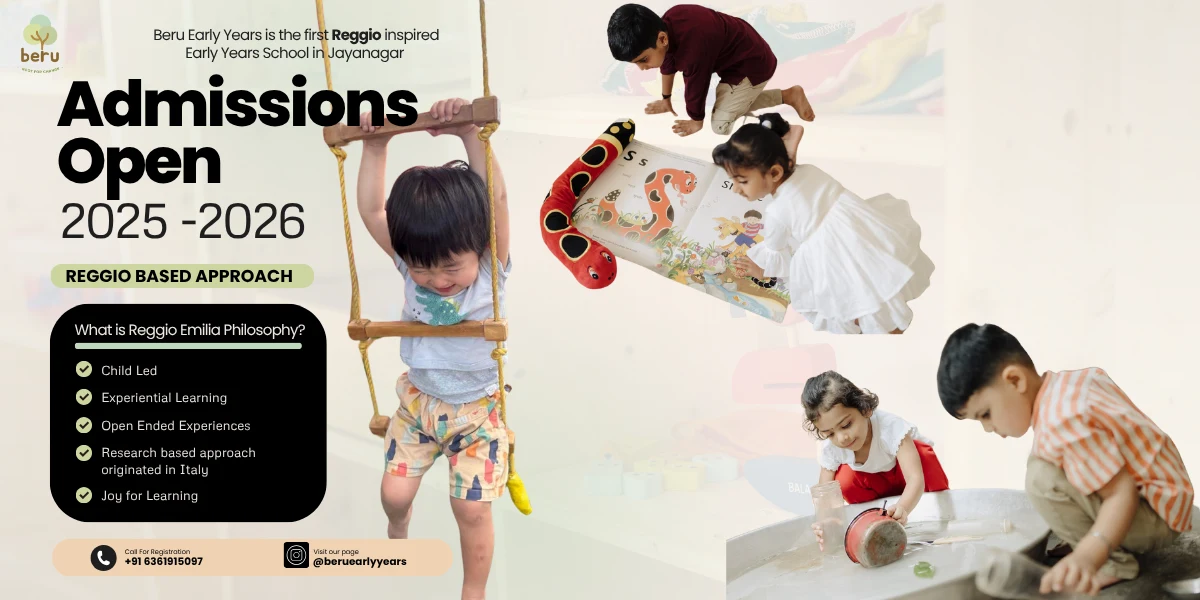
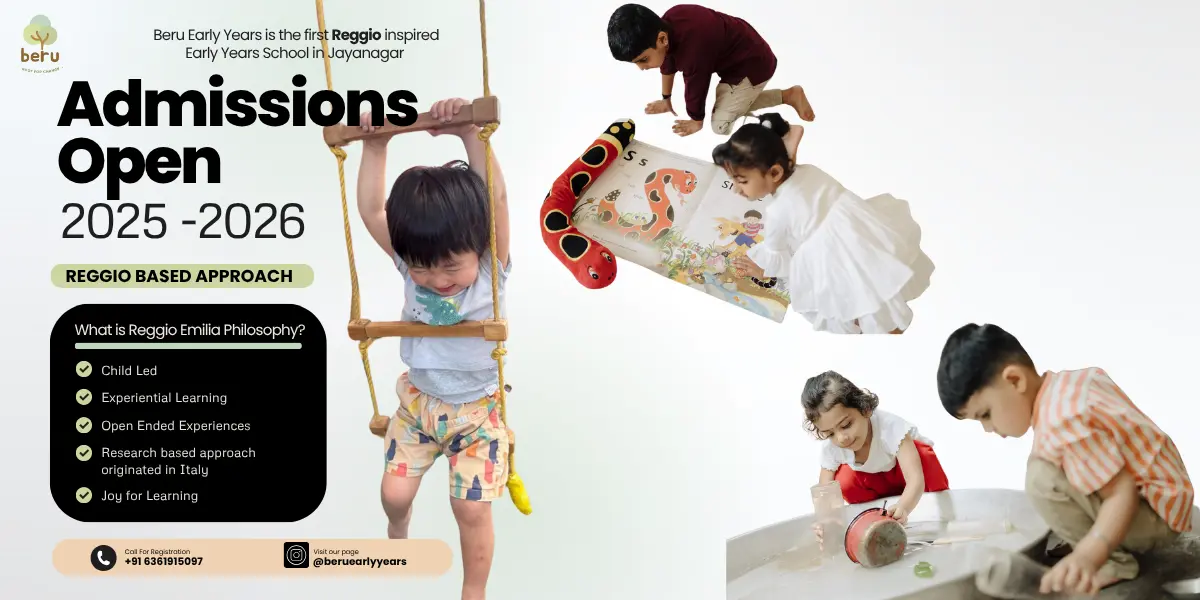
pic change

diff --git a/landing_page.html b/landing_page.html
@@ -764,7 +764,7 @@
                                         
                                         <div class="sx-info  p-t20 text-white">
                                             <h4 class="sx-tilte m-t0"><a href="#"></a></h4>
-                                            <!-- <p>Many of our projects cannot be featured in this section due to the Security levels of the space.</p> -->
+                                            <!-- <p></p> -->
 											<a href="landing_page.html#book" class="site-button btn-half button-sm"><span>Book a Campus Tour</span></a>
                                         </div>
                                                                                    
